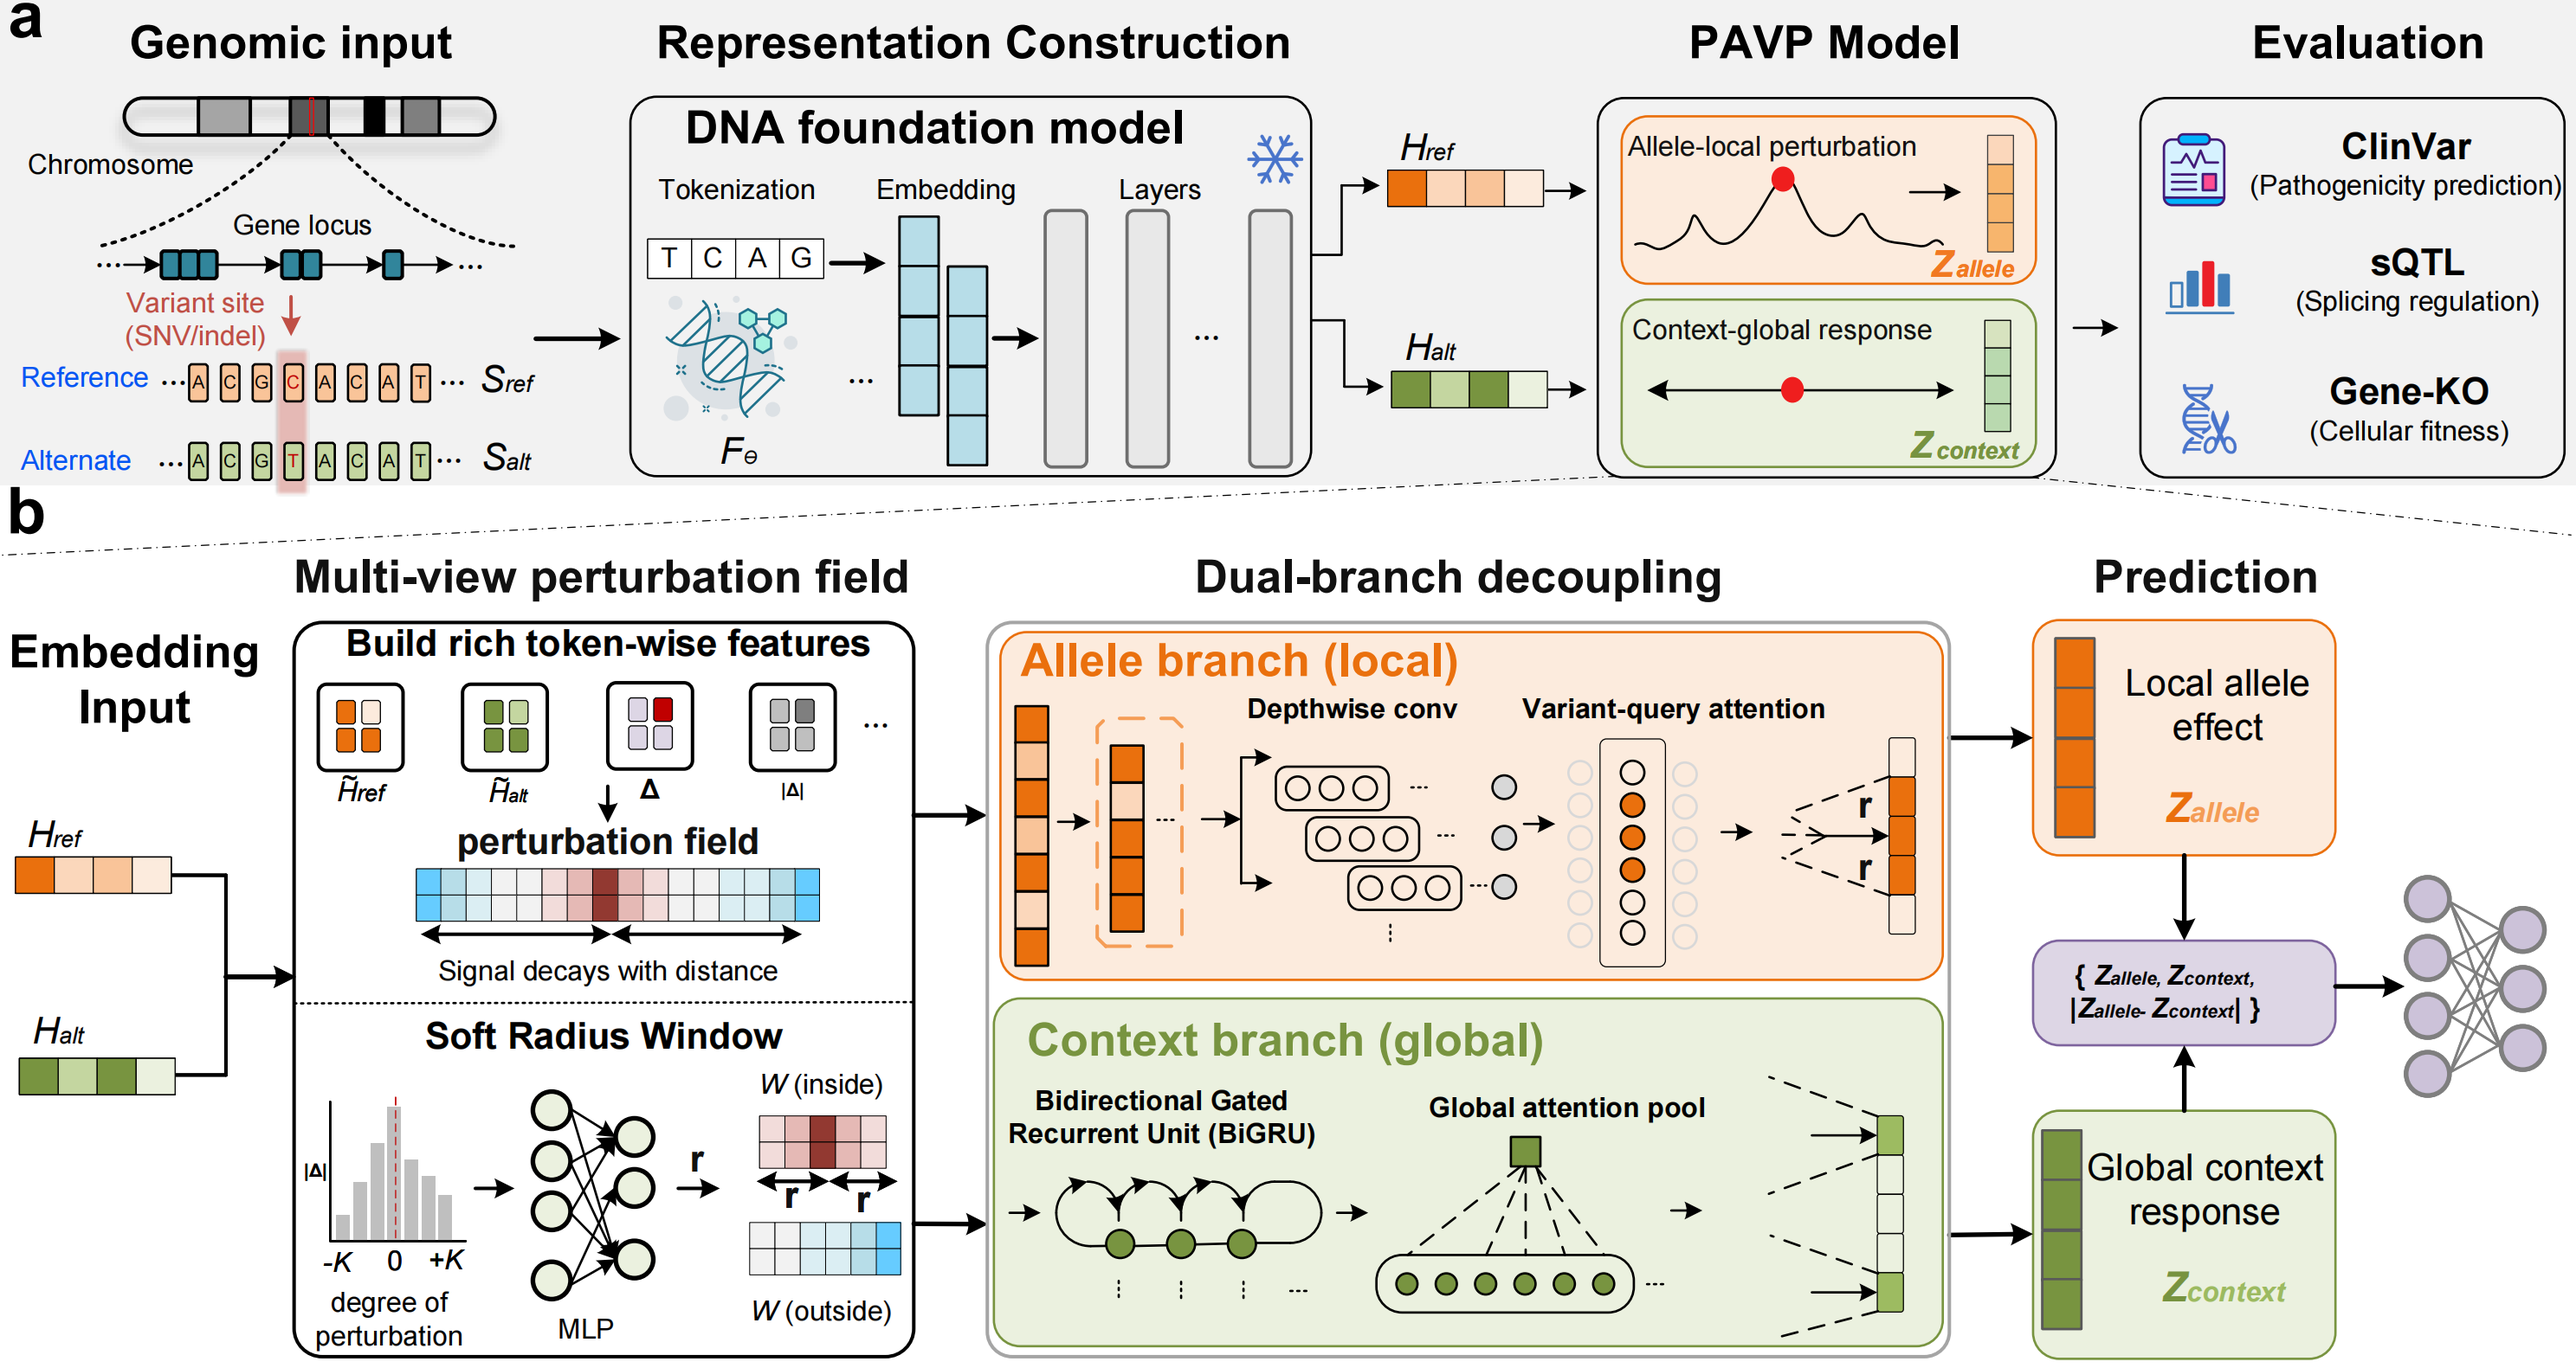
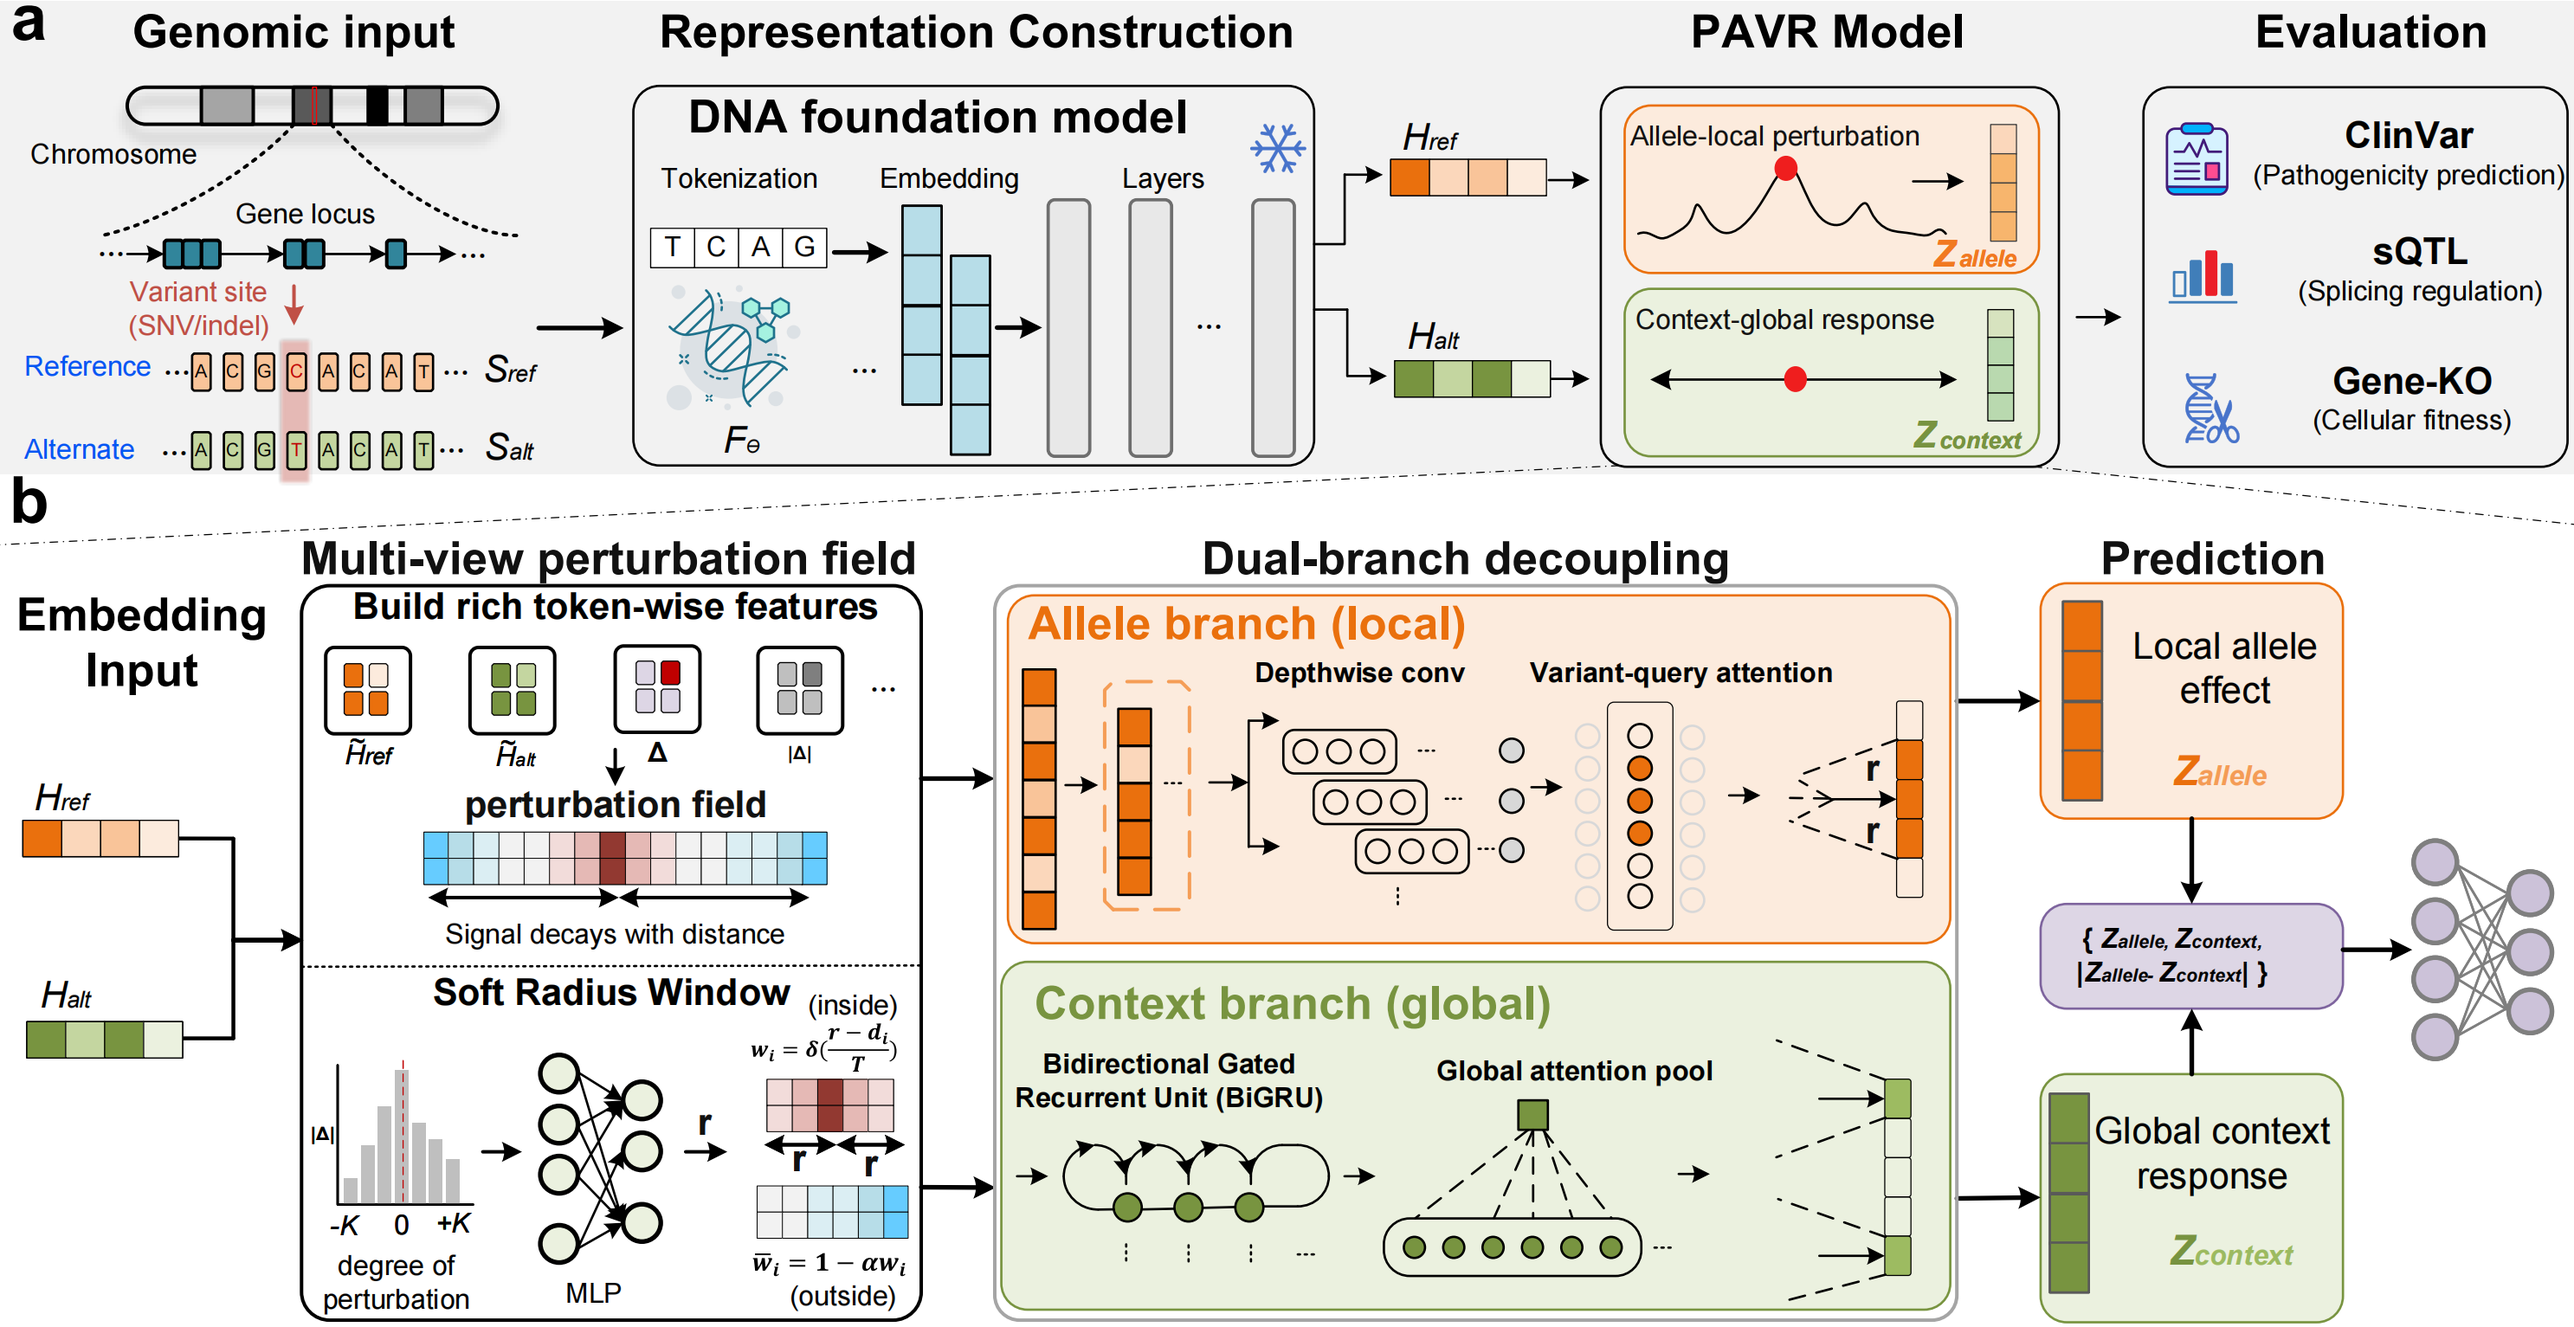
Update the overview figure and context-branch description.

diff --git a/README.md b/README.md
@@ -11,7 +11,7 @@ Variant effect prediction asks whether a small DNA change can perturb molecular 
 **PAVR** (*Perturbation-Aware Variant Representation*) repurposes **frozen** GFMs by comparing token-level hidden states of paired reference and alternative sequences. It builds multi-view ref–alt token fields and uses an explicit **dual-branch** design with soft complementary receptive fields:
 
 - **Allele branch** — local allelic perturbation at the edited bases  
-- **Context branch** — context-mediated / regulatory response (BiGRU)
+- **Context branch** — context-mediated / regulatory response
 
 The two scales stay disentangled before fusion, improving predictive performance and mechanistic interpretability over conventional global differential embeddings (validated on ClinVar, sQTL, and Gene-KO across six GFMs).
 
